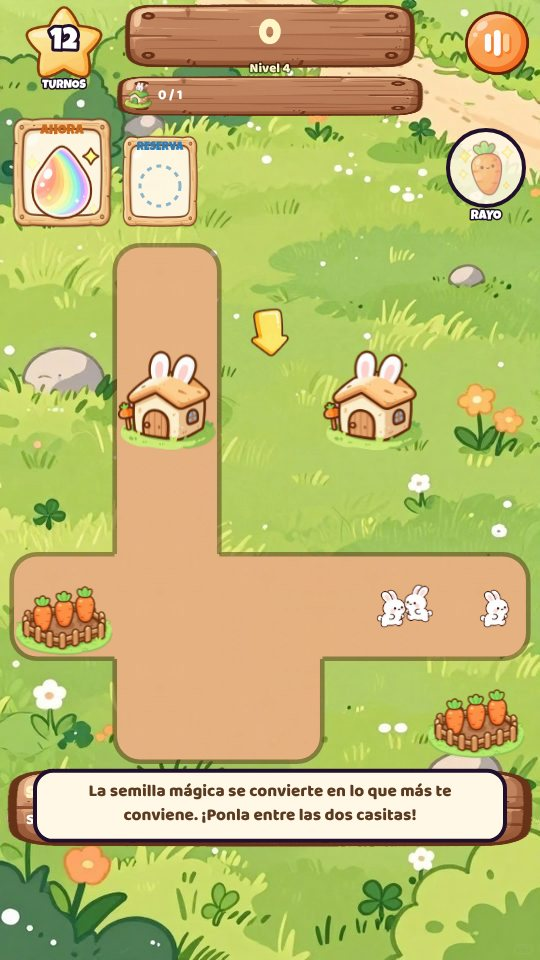
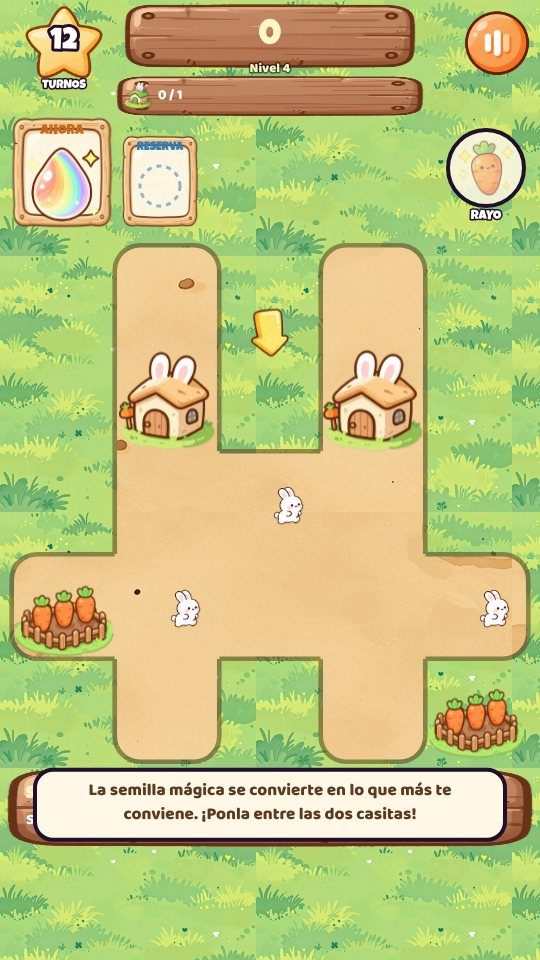
alfa 68ea26d: Fans of Merge: suelo y tierra pintados por Yoshi; botón naranja pintado

diff --git a/alfa/index.html b/alfa/index.html
@@ -10,10 +10,10 @@
 <link rel="preconnect" href="https://fonts.googleapis.com">
 <link rel="preconnect" href="https://fonts.gstatic.com" crossorigin>
 <link rel="stylesheet" href="https://fonts.googleapis.com/css2?family=Baloo+2:wght@600;700;800&family=Luckiest+Guy&display=swap">
-<link rel="stylesheet" href="core/css/base.css?v=247a003">
-<link rel="stylesheet" href="biblioteca/tienda.css?v=247a003">
-<link rel="stylesheet" href="novedades/ventana.css?v=247a003">
-<link rel="stylesheet" href="biblioteca/votos.css?v=247a003">
+<link rel="stylesheet" href="core/css/base.css?v=68ea26d">
+<link rel="stylesheet" href="biblioteca/tienda.css?v=68ea26d">
+<link rel="stylesheet" href="novedades/ventana.css?v=68ea26d">
+<link rel="stylesheet" href="biblioteca/votos.css?v=68ea26d">
 <style>
   /* la entrada de la web: una tarjeta por juego, con los colores y las letras de core */
   body { overflow: auto; touch-action: auto; align-items: flex-start; background-repeat: no-repeat; background-attachment: fixed; }
@@ -61,7 +61,7 @@
 </style>
 </head>
 <body>
-<script src="menu.js?v=247a003" data-base="" data-core="1" data-pagina=""></script>
+<script src="menu.js?v=68ea26d" data-base="" data-core="1" data-pagina=""></script>
 <div class="nov-fondo" id="novedades" hidden>
   <div class="nov-caja" role="dialog" aria-modal="true" aria-labelledby="nov-titulo">
     <div class="nov-cabeza"><h2 class="ol" id="nov-titulo">NOVEDADES</h2><p id="nov-sub"></p></div>
@@ -333,8 +333,8 @@
   </section>
   <p class="note" id="pie-fansof">Fans Of™ · © 2026 Arkioner y Pepins · MicroBlizz · Todos los derechos reservados</p>
 </main>
-<script src="core/js/nucleo.js?v=0-a655.247a003"></script>
-<script src="core/js/novedades.js?v=247a003"></script>
+<script src="core/js/nucleo.js?v=0-a656.68ea26d"></script>
+<script src="core/js/novedades.js?v=68ea26d"></script>
 <script>
 // La cuenta de la web es la misma de los juegos (core/js/sistema/cuenta.js, mismo navegador = misma sesión). Aquí no hay partida que subir.
 const AJUSTES = { id: 'web', guardado: 'fansof-web' }, SAVE_KEY = AJUSTES.guardado, SAVE = {};
@@ -343,7 +343,7 @@ const HOOKS = {};
 function hook(name, fn) { (HOOKS[name] = HOOKS[name] || []).push(fn); }
 function fire(name, ...a) { let out = ''; for (const fn of HOOKS[name] || []) { const r = fn(...a); if (typeof r === 'string') out += r; } return out; }
 </script>
-<script src="core/js/sistema/cuenta.js?v=247a003"></script>
+<script src="core/js/sistema/cuenta.js?v=68ea26d"></script>
 <script>NUCLEO.idiomaSolo({ en: ['core/idioma/en-raiz.js', 'novedades/en.js', 'biblioteca/en.js','games/rumble/idioma/en-7.js', 'games/td/idioma/en-2.js', 'games/survivors/idioma/en.js', 'games/crush/idioma/en-raiz.js', 'games/jump/idioma/en-raiz.js', 'games/taxi/idioma/en-raiz.js', 'games/dark/idioma/en-raiz.js', 'games/nova/idioma/en-raiz.js', 'demos/beams/idioma/en-raiz.js', 'demos/snakes/idioma/en-raiz.js', 'demos/merge/idioma/en-raiz.js', 'demos/swipe/idioma/en-raiz.js', 'demos/vikings/idioma/en-raiz.js', 'demos/goose/idioma/en-raiz.js', 'demos/asalto/idioma/en-raiz.js', 'demos/auto/idioma/en-raiz.js', 'games/island/idioma/en-raiz.js', 'demos/rumble-3d/idioma/en-raiz.js', 'demos/roguelite/idioma/en-raiz.js', 'demos/tactics-advance/idioma/en-raiz.js', 'games/rouflage/idioma/en-raiz.js', 'demos/dungeons/idioma/en-raiz.js', 'games/karts/idioma/en-raiz.js', 'demos/recruit/idioma/en-raiz.js', 'demos/terminal-shock/idioma/en-raiz.js', 'games/ratkov/idioma/en-raiz.js'] })</script>
 <script>
 // La versión y las novedades salen de los archivos de cada juego, así que esta página nunca se queda atrás.
@@ -369,14 +369,14 @@ const fail = id => () => {
 };
 
 </script>
-<script src="core/js/proximamente.js?v=247a003"></script>
-<script src="novedades/ventana.js?v=247a003"></script>
-<script src="biblioteca/tienda.js?v=247a003"></script>
-<script src="core/js/sistema/beta.js?v=247a003"></script>
-<script src="biblioteca/cuenta-web.js?v=247a003"></script>
-<script src="biblioteca/votos.js?v=247a003"></script>
-<script src="biblioteca/alfa.js?v=247a003"></script>
-<script src="core/js/sistema/analitica.js?v=247a003"></script>
-<script src="pie.js?v=247a003" defer></script>
+<script src="core/js/proximamente.js?v=68ea26d"></script>
+<script src="novedades/ventana.js?v=68ea26d"></script>
+<script src="biblioteca/tienda.js?v=68ea26d"></script>
+<script src="core/js/sistema/beta.js?v=68ea26d"></script>
+<script src="biblioteca/cuenta-web.js?v=68ea26d"></script>
+<script src="biblioteca/votos.js?v=68ea26d"></script>
+<script src="biblioteca/alfa.js?v=68ea26d"></script>
+<script src="core/js/sistema/analitica.js?v=68ea26d"></script>
+<script src="pie.js?v=68ea26d" defer></script>
 </body>
 </html>

diff --git a/alfa/games/rouflage/index.html b/alfa/games/rouflage/index.html
@@ -10,7 +10,7 @@
 <link rel="preconnect" href="https://fonts.googleapis.com">
 <link rel="preconnect" href="https://fonts.gstatic.com" crossorigin>
 <link rel="stylesheet" href="https://fonts.googleapis.com/css2?family=Baloo+2:wght@600;700;800&family=Luckiest+Guy&display=swap">
-<script src="../../core/js/nucleo.js?v=0.2.63-a655.247a003"></script>
+<script src="../../core/js/nucleo.js?v=0.2.63-a656.68ea26d"></script>
 <script>NUCLEO.estilos('../../core/css/base.css', '../../core/css/menus.css', '../../core/css/menus-extra.css')</script>
 <script>NUCLEO.estilos('estilo.css', 'estilo-taller.css', 'estilo-pantallas.css', 'estilo-pvp.css', 'estilo-armario.css', 'estilo-menus.css', 'estilo-misiones.css', 'estilo-escenario.css', 'estilo-votos.css', 'estilo-gacha.css', 'estilo-compra.css', 'estilo-fin.css', 'estilo-talentos.css', 'estilo-chat.css', 'estilo-titulo.css', 'estilo-barra.css', 'estilo-sala-viva.css', 'estilo-obra.css', 'estilo-ayuda.css', 'estilo-carga.css')</script>      <!-- la intro, la última: pisa el #carga de estilo.css (antes iba en línea dentro de #carga) -->
 </head>

diff --git a/alfa/games/karts/index.html b/alfa/games/karts/index.html
@@ -8,7 +8,7 @@
 <meta name="description" content="Fans of Karts (juego): carreras de karts en pixel art de consola portátil con los líderes de Fans of Rumble. Tres pistas, seis pilotos, objetos con mala idea y Microblizz, que ha comprado la carrera.">
 <link rel="icon" type="image/png" href="img/icon-192.png">
 <link rel="apple-touch-icon" href="img/icon-192.png">
-<script src="../../core/js/nucleo.js?v=0.7.15-a655.247a003"></script>
+<script src="../../core/js/nucleo.js?v=0.7.15-a656.68ea26d"></script>
 <script>NUCLEO.estilos('../../core/css/base.css', '../../core/css/menus.css', '../../core/css/menus-tienda.css', '../../core/css/menus-extra.css', 'css/tienda.css', 'css/pvp.css')</script>
 <link rel="stylesheet" href="https://fonts.googleapis.com/css2?family=Baloo+2:wght@600;700;800&family=Luckiest+Guy&display=swap">
 <style>

diff --git a/alfa/games/dark/index.html b/alfa/games/dark/index.html
@@ -12,7 +12,7 @@
 <link rel="stylesheet" href="https://fonts.googleapis.com/css2?family=Baloo+2:wght@600;700;800&family=Luckiest+Guy&family=Press+Start+2P&family=Pixelify+Sans:wght@400;600;700&display=swap">
 <link rel="stylesheet" href="css/dark.css?v=0.2.4">
 <!-- Prototipo: no usa NUCLEO (tiene su propia partida guardada). Carga de core el arte, la música, los efectos y las cifras del Rumble.
-     VERSIÓN para desplegar.py (que la busca así): nucleo.js?v=0.2.7-a655.247a003' (aquí solo se anota; súbela junto al ?v= de los scripts). -->
+     VERSIÓN para desplegar.py (que la busca así): nucleo.js?v=0.2.7-a656.68ea26d' (aquí solo se anota; súbela junto al ?v= de los scripts). -->
 </head>
 <body>
 <canvas id="cv" aria-label="Mazmorra"></canvas>

diff --git a/alfa/games/rumble/index.html b/alfa/games/rumble/index.html
@@ -16,7 +16,7 @@
 <link rel="preconnect" href="https://fonts.gstatic.com" crossorigin>
 <link rel="stylesheet" href="https://fonts.googleapis.com/css2?family=Baloo+2:wght@600;700;800&family=Luckiest+Guy&display=swap">
 <!-- core/js/nucleo.js carga lo común y el juego. LA VERSIÓN SE ESCRIBE SOLO AQUÍ, en su ?v= -->
-<script src="../../core/js/nucleo.js?v=0.9.158-a655.247a003"></script>
+<script src="../../core/js/nucleo.js?v=0.9.158-a656.68ea26d"></script>
 <script>NUCLEO.estilos('../../core/css/menus.css', 'css/estilos-partida.css', 'css/estilos-extra.css', 'css/arena.css', '../../core/css/biblioteca.css', 'css/facciones-y-jefes.css', '../../core/css/clasificacion.css', 'css/frases.css', 'css/mitica.css', 'css/paletas.css')</script>
 
 </head>

diff --git a/alfa/games/jump/index.html b/alfa/games/jump/index.html
@@ -12,7 +12,7 @@
 <link rel="preconnect" href="https://fonts.gstatic.com" crossorigin>
 <link rel="stylesheet" href="https://fonts.googleapis.com/css2?family=Baloo+2:wght@600;700;800&family=Luckiest+Guy&display=swap">
 <!-- ?v= es la versión del juego (la misma en la web y en la app): súbela al publicar y pon su entrada en js/novedades.js -->
-<script src="../../core/js/nucleo.js?v=0.3.16-a655.247a003"></script>
+<script src="../../core/js/nucleo.js?v=0.3.16-a656.68ea26d"></script>
 <script>NUCLEO.estilos('../../core/css/base.css', '../../core/css/menus.css')</script>
 <style>
 /* Fans of Jump: un solo canvas a la resolución real de la pantalla, con los dibujos 3D. El mundo mide unos 200 de ancho y se

diff --git a/alfa/games/decks/index.html b/alfa/games/decks/index.html
@@ -15,7 +15,7 @@
 <link rel="preconnect" href="https://fonts.gstatic.com" crossorigin>
 <link rel="stylesheet" href="https://fonts.googleapis.com/css2?family=Baloo+2:wght@600;700;800&family=Luckiest+Guy&display=swap">
 <!-- core/js/nucleo.js carga lo común y el juego. LA VERSIÓN SE ESCRIBE SOLO AQUÍ, en su ?v= -->
-<script src="../../core/js/nucleo.js?v=0.2.21-a655.247a003"></script>
+<script src="../../core/js/nucleo.js?v=0.2.21-a656.68ea26d"></script>
 <script>NUCLEO.estilos('../../core/css/base.css', '../../core/css/menus.css', 'css/decks.css', 'css/decks-reunion.css', 'css/decks-anim.css', 'css/decks-campana.css', 'css/decks-lideres.css')</script>
 </head>
 <body>

diff --git a/alfa/demos/goose/index.html b/alfa/demos/goose/index.html
@@ -10,7 +10,7 @@
 <link rel="preconnect" href="https://fonts.gstatic.com" crossorigin>
 <link rel="stylesheet" href="https://fonts.googleapis.com/css2?family=Pixelify+Sans:wght@500;700&family=Pirata+One&display=swap">
 <!-- ?v= es la versión de la demo: súbela al publicar -->
-<script src="../../core/js/nucleo.js?v=0.3.0-a655.247a003"></script>
+<script src="../../core/js/nucleo.js?v=0.3.0-a656.68ea26d"></script>
 <script>NUCLEO.estilos('../../core/css/base.css', '../../core/css/menus.css')</script>
 <style>
 /* Fans of Goose: un solo canvas en vertical, a la resolución real del móvil. El mundo mide 200 de ancho. */

diff --git a/alfa/games/ratkov/index.html b/alfa/games/ratkov/index.html
@@ -13,7 +13,7 @@
 <link rel="preconnect" href="https://fonts.gstatic.com" crossorigin>
 <link rel="stylesheet" href="https://fonts.googleapis.com/css2?family=VT323&family=Russo+One&display=swap">
 <script src="https://cdnjs.cloudflare.com/ajax/libs/three.js/r128/three.min.js"></script>
-<script src="../../core/js/nucleo.js?v=0.2.29-a655.247a003"></script>
+<script src="../../core/js/nucleo.js?v=0.2.29-a656.68ea26d"></script>
 <script>NUCLEO.estilos('../../core/css/base.css', '../../core/css/menus.css')</script>
 <link rel="stylesheet" href="estilo.css?v=0.2.3">
 <link rel="stylesheet" href="estilo-refugio.css?v=0.2.3">

diff --git a/alfa/games/survivors/index.html b/alfa/games/survivors/index.html
@@ -15,7 +15,7 @@
 <link rel="preconnect" href="https://fonts.gstatic.com" crossorigin>
 <link rel="stylesheet" href="https://fonts.googleapis.com/css2?family=Baloo+2:wght@600;700;800&family=Luckiest+Guy&display=swap">
 <!-- core/js/nucleo.js carga lo común y el juego. LA VERSIÓN SE ESCRIBE SOLO AQUÍ, en su ?v= -->
-<script src="../../core/js/nucleo.js?v=0.1.71-a655.247a003"></script>
+<script src="../../core/js/nucleo.js?v=0.1.71-a656.68ea26d"></script>
 <script>NUCLEO.estilos('../../core/css/base.css', '../../core/css/menus.css', 'css/survivors.css', '../../core/css/biblioteca.css')</script>
 </head>
 <body>

diff --git a/alfa/games/td/index.html b/alfa/games/td/index.html
@@ -15,7 +15,7 @@
 <link rel="preconnect" href="https://fonts.gstatic.com" crossorigin>
 <link rel="stylesheet" href="https://fonts.googleapis.com/css2?family=Baloo+2:wght@600;700;800&family=Luckiest+Guy&display=swap">
 <!-- core/js/nucleo.js carga lo común y el juego. LA VERSIÓN SE ESCRIBE SOLO AQUÍ, en su ?v= -->
-<script src="../../core/js/nucleo.js?v=0.13.87-a655.247a003"></script>
+<script src="../../core/js/nucleo.js?v=0.13.87-a656.68ea26d"></script>
 <script>NUCLEO.estilos('../../core/css/base.css', 'css/td.css', '../../core/css/menus.css', '../../core/css/biblioteca.css')</script>
 </head>
 <body>

diff --git a/alfa/demos/snakes/index.html b/alfa/demos/snakes/index.html
@@ -10,7 +10,7 @@
 <link rel="preconnect" href="https://fonts.gstatic.com" crossorigin>
 <link rel="stylesheet" href="https://fonts.googleapis.com/css2?family=Baloo+2:wght@600;700;800&display=swap">
 <!-- ?v= es la versión de la demo: súbela al publicar -->
-<script src="../../core/js/nucleo.js?v=0.2.1-a655.247a003"></script>
+<script src="../../core/js/nucleo.js?v=0.2.1-a656.68ea26d"></script>
 <script>NUCLEO.estilos('../../core/css/base.css', '../../core/css/menus.css')</script>
 <style>
 /* Fans of Snakes: un solo canvas en vertical, a la resolución real del móvil. El mundo mide 200 de ancho. */
